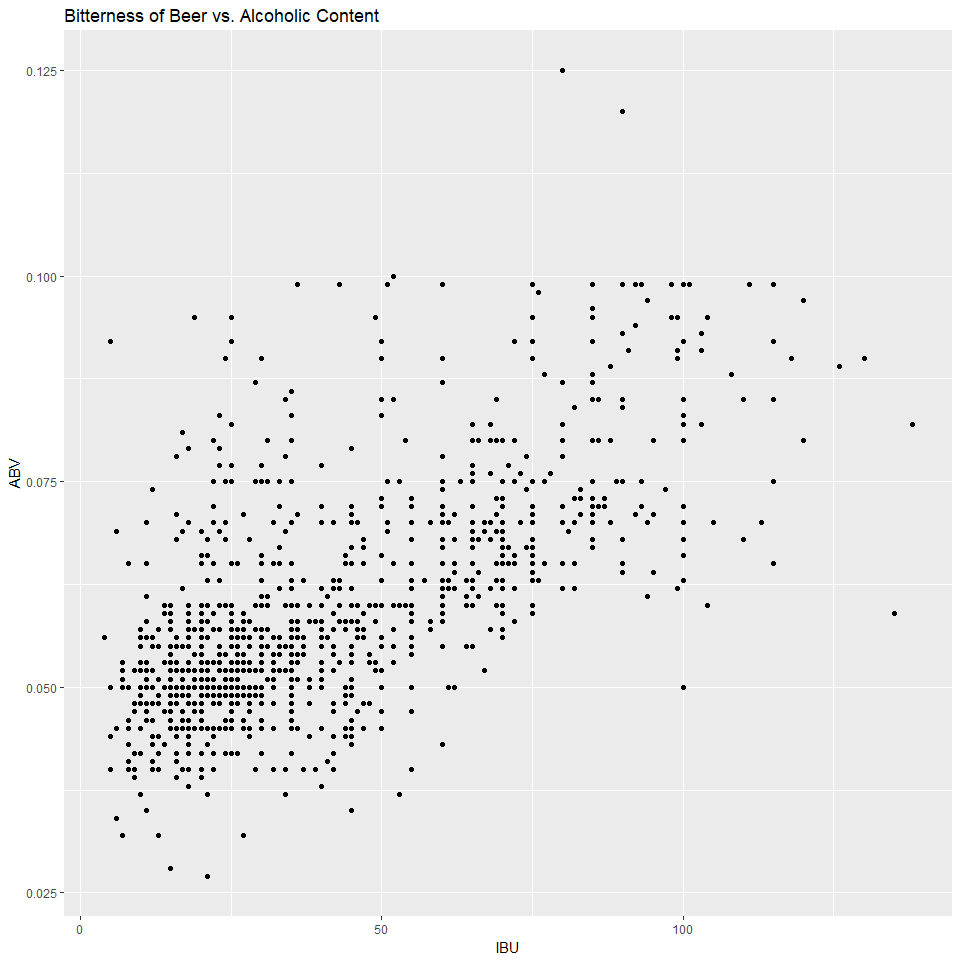
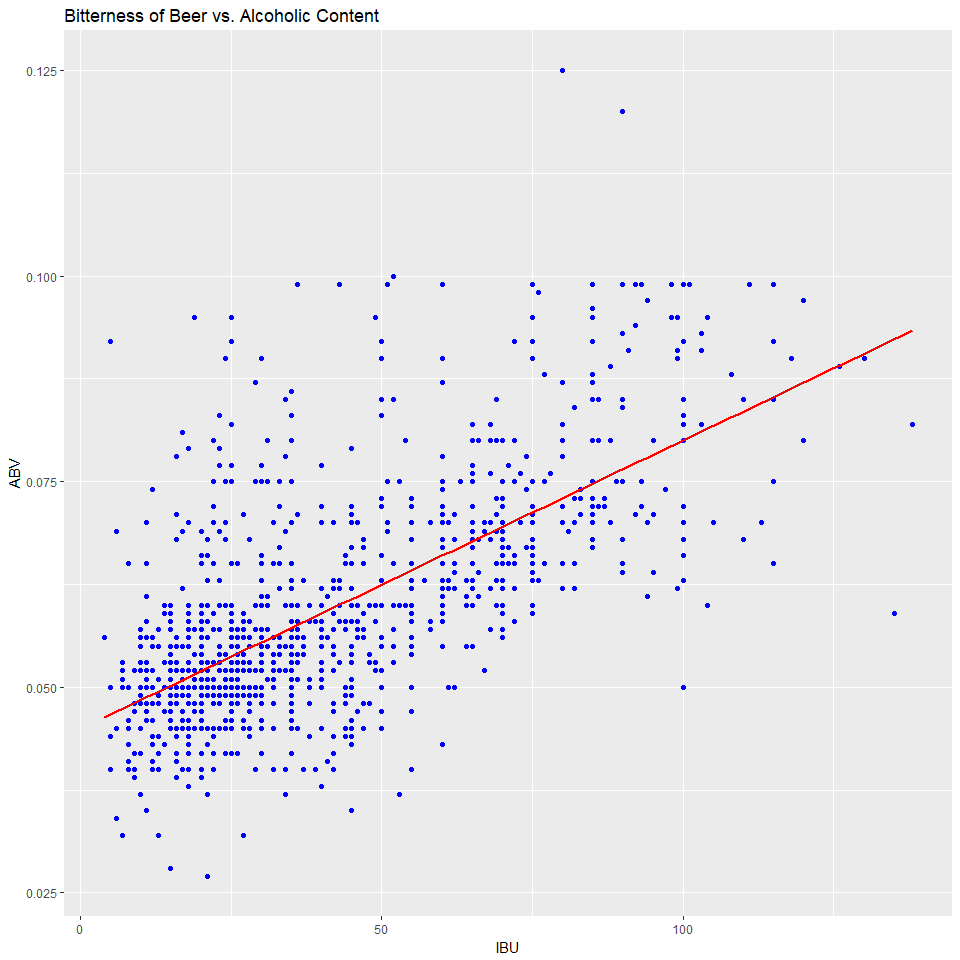
Add linear regression

Changed region(s): [[0.125, 0.5312, 0.5625, 0.8125], [0.5625, 0.5, 0.625, 0.5625], [0.6875, 0.4375, 0.75, 0.4688]]

diff --git a/CaseStudy1.md b/CaseStudy1.md
@@ -284,9 +284,12 @@ library(ggplot2)
     ## Warning: package 'ggplot2' was built under R version 3.4.3
 
 ``` r
+library(devtools)
+
 ## Displaying IBU vs. ABV scatter plot
 
-ggplot(BBnoNA, aes(x=IBU,y=ABV))+geom_point()+ggtitle("Bitterness of Beer vs. Alcoholic Content")
+ggplot(BBnoNA, aes(x=IBU,y=ABV))+geom_point(color='blue')+ggtitle("Bitterness of Beer vs. Alcoholic Content")+ 
+  geom_smooth(method = "lm", se = FALSE, color="red") 
 ```
 
 ![](CaseStudy1_files/figure-markdown_github/unnamed-chunk-12-1.png)
@@ -294,7 +297,8 @@ ggplot(BBnoNA, aes(x=IBU,y=ABV))+geom_point()+ggtitle("Bitterness of Beer vs. Al
 ``` r
 ## Scatter Plot Analysis
 ##
-## The scatter plots indicate a positive direct relationship between IBU and ABV.  The simple linear regression can be made.
+## The scatter plots indicate a positive direct relationship between IBU and ABV.  
+## The simple linear regression is also applied.
 ##
-## ------------------------------------------------------------------------------------------------------------------------
+## -------------------------------------- END -----------------------------------------------
 ```
